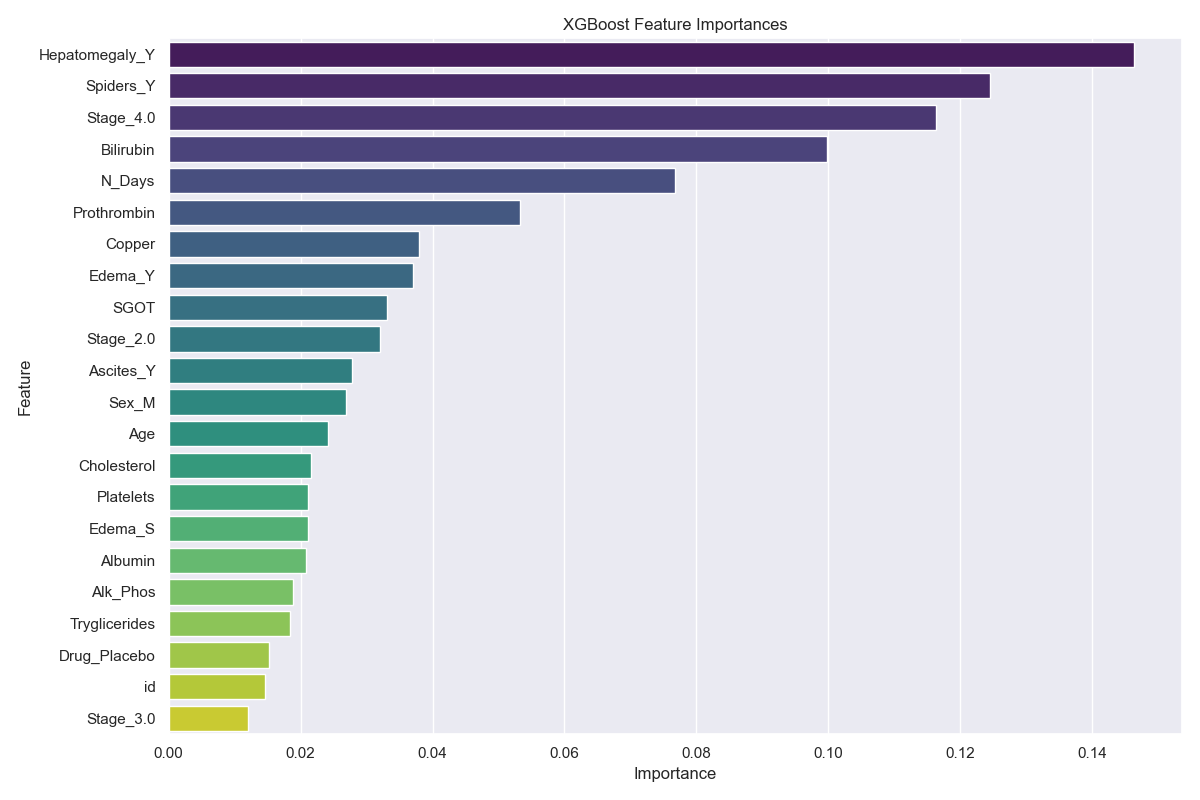
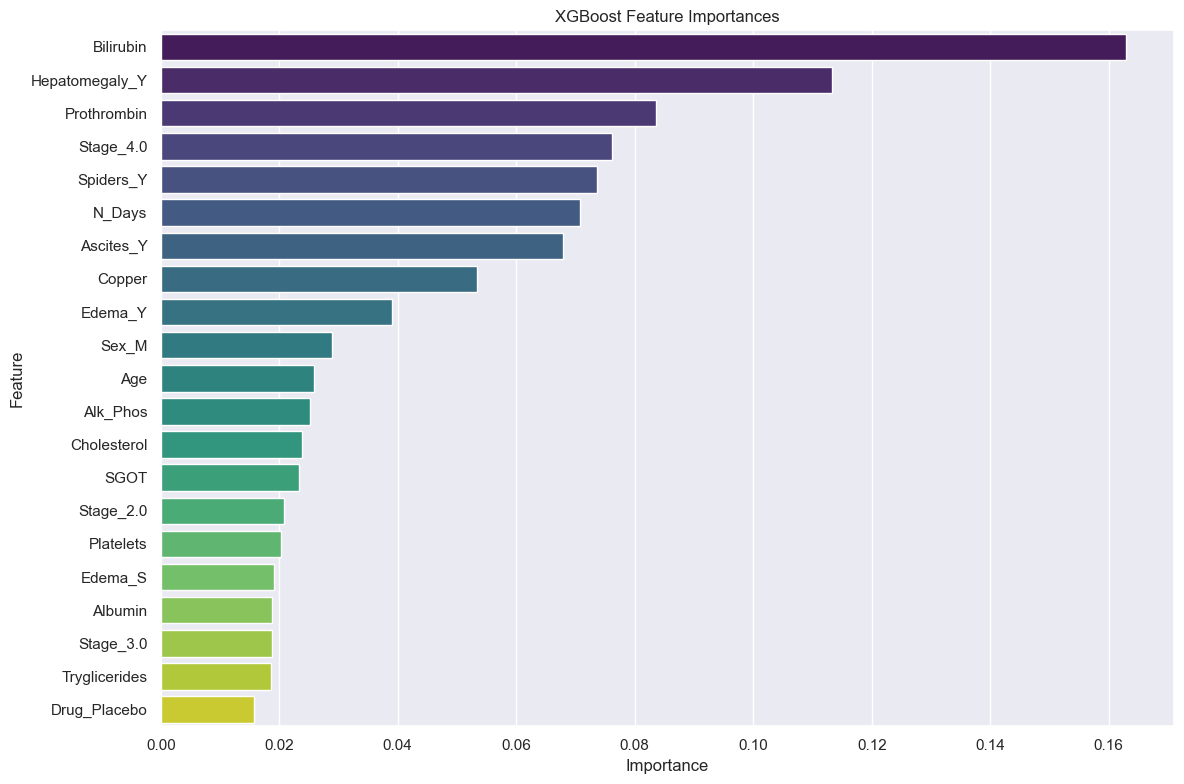
Restructured code and added preprocessing

diff --git a/src/xgboost_clf.py b/src/xgboost_clf.py
@@ -4,26 +4,7 @@ from sklearn.model_selection import KFold, cross_val_score, GridSearchCV
 from xgboost import XGBClassifier
 import matplotlib.pyplot as plt
 import seaborn as sns
-
-CLASS_DICT = {'C': 0, 'CL': 1, 'D': 2}
-
-
-def load_data():
-    # Split into features/labels
-    train = pd.read_csv('./data/train.csv')
-    X_test = pd.read_csv('./data/test.csv')
-    X_train = train.drop('Status', axis=1)
-    y_train = train['Status']
-    
-    # One-hot encode discrete features
-    discrete_features = ['Drug', 'Sex', 'Ascites', 'Hepatomegaly', 'Spiders', 'Edema', 'Stage']
-    X_train = pd.get_dummies(X_train, columns=discrete_features, drop_first=True)
-    X_test = pd.get_dummies(X_test, columns=discrete_features, drop_first=True)
-
-    # Encode labels
-    y_train = [CLASS_DICT[label] for label in y_train]
-
-    return X_train, X_test, y_train
+from utils import *
 
 
 def train(X_train, y_train):
@@ -75,12 +56,12 @@ def visualize_feature_importances(clf):
     plt.show()
 
 
-def predict(clf, X_test):
+def predict(clf, X_test, test_IDs):
     prob_pred = clf.predict_proba(X_test)
     class_labels = ['Status_' + label for label in CLASS_DICT.keys()]
 
     prob_df = pd.DataFrame(prob_pred, columns=class_labels)
-    prob_df['id'] = X_test['id'].reset_index(drop=True)
+    prob_df['id'] = test_IDs
     columns_order = ['id'] + list(class_labels)
     prob_df = prob_df[columns_order]
 
@@ -89,6 +70,7 @@ def predict(clf, X_test):
 
 if __name__ == '__main__':
     X_train, X_test, y_train = load_data()
+    X_train, X_test, y_train, test_IDs = preprocess_data(X_train, X_test, y_train)
     clf = train(X_train, y_train)
-    #visualize_feature_importances(clf)
-    predict(clf, X_test)
+    visualize_feature_importances(clf)
+    predict(clf, X_test, test_IDs)

diff --git a/src/logistic_regression.py b/src/logistic_regression.py
@@ -4,27 +4,7 @@ from sklearn.linear_model import LogisticRegression
 from sklearn.model_selection import KFold, cross_val_score, GridSearchCV
 from sklearn.preprocessing import StandardScaler
 from sklearn.pipeline import Pipeline
-
-
-CLASS_DICT = {'C': 0, 'CL': 1, 'D': 2}
-
-
-def load_data():
-    # Split into features/labels
-    train = pd.read_csv('./data/train.csv')
-    X_test = pd.read_csv('./data/test.csv')
-    X_train = train.drop('Status', axis=1)
-    y_train = train['Status']
-    
-    # One-hot encode discrete features
-    discrete_features = ['Drug', 'Sex', 'Ascites', 'Hepatomegaly', 'Spiders', 'Edema', 'Stage']
-    X_train = pd.get_dummies(X_train, columns=discrete_features, drop_first=True)
-    X_test = pd.get_dummies(X_test, columns=discrete_features, drop_first=True)
-
-    # Encode labels
-    y_train = [CLASS_DICT[label] for label in y_train]
-
-    return X_train, X_test, y_train
+from utils import *
 
 
 def train(X_train, y_train):
@@ -61,12 +41,12 @@ def train(X_train, y_train):
     return clf
 
 
-def predict(clf, X_test):
+def predict(clf, X_test, test_IDs):
     prob_pred = clf.predict_proba(X_test)
     class_labels = ['Status_' + label for label in CLASS_DICT.keys()]
 
     prob_df = pd.DataFrame(prob_pred, columns=class_labels)
-    prob_df['id'] = X_test['id'].reset_index(drop=True)
+    prob_df['id'] = test_IDs
     columns_order = ['id'] + list(class_labels)
     prob_df = prob_df[columns_order]
 
@@ -75,5 +55,6 @@ def predict(clf, X_test):
 
 if __name__ == '__main__':
     X_train, X_test, y_train = load_data()
+    X_train, X_test, y_train, test_IDs = preprocess_data(X_train, X_test, y_train)
     clf = train(X_train, y_train)
-    #predict(clf, X_test)
+    predict(clf, X_test, test_IDs)

diff --git a/src/utils.py b/src/utils.py
@@ -1,0 +1,35 @@
+import pandas as pd
+
+
+CLASS_DICT = {'C': 0, 'CL': 1, 'D': 2}
+
+
+def load_data():
+    # Load raw data
+    train = pd.read_csv('./data/train.csv')
+    test = pd.read_csv('./data/test.csv')
+
+    # Split into features/labels
+    X_train = train.drop('Status', axis=1)
+    y_train = train['Status']
+    X_test = test
+
+    return X_train, X_test, y_train
+
+
+def preprocess_data(X_train, X_test, y_train):
+    # Remove useless features
+    useless_features = ['id']
+    test_IDs = X_test['id'].to_list()
+    X_train.drop(columns=useless_features, inplace=True)
+    X_test.drop(columns=useless_features, inplace=True)
+
+    # One-hot encode discrete features
+    discrete_features = ['Drug', 'Sex', 'Ascites', 'Hepatomegaly', 'Spiders', 'Edema', 'Stage']
+    X_train = pd.get_dummies(X_train, columns=discrete_features, drop_first=True)
+    X_test = pd.get_dummies(X_test, columns=discrete_features, drop_first=True)
+
+    # Encode labels
+    y_train = [CLASS_DICT[label] for label in y_train]
+
+    return X_train, X_test, y_train, test_IDs
